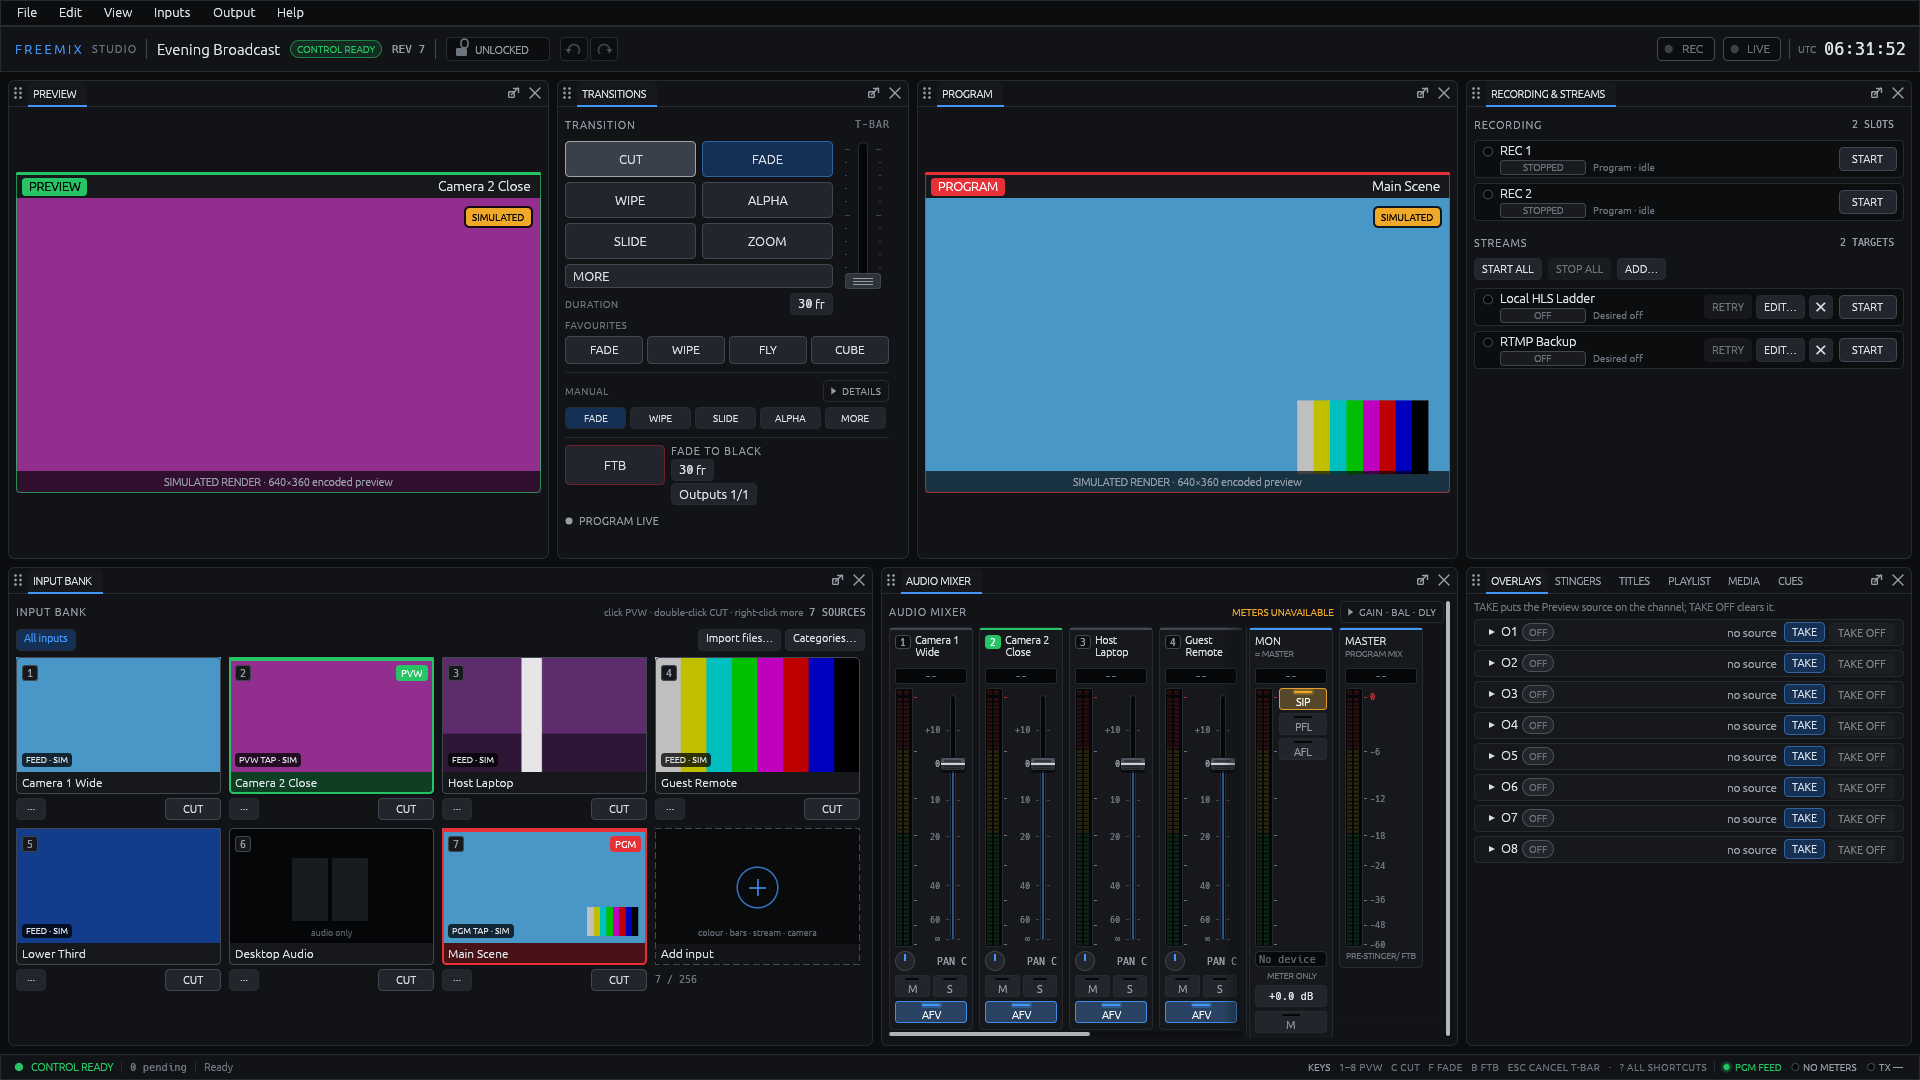
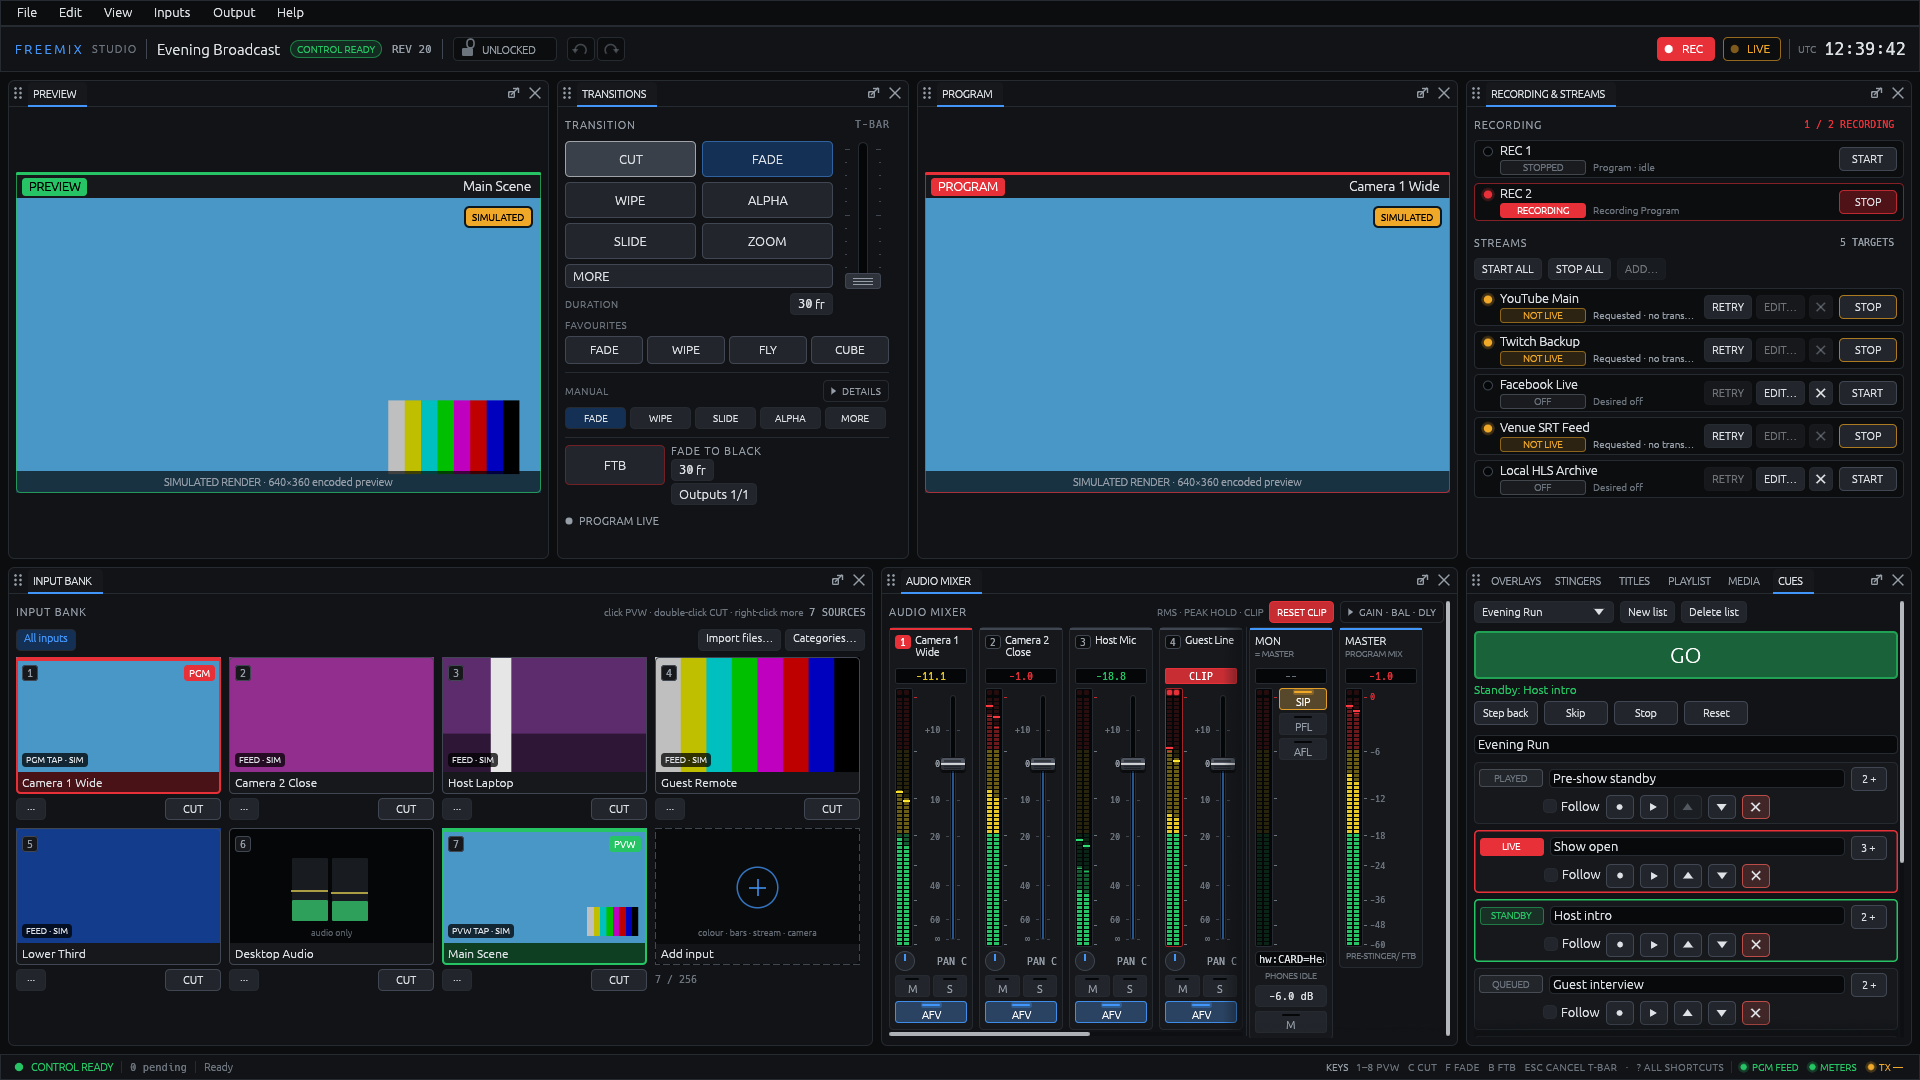
docs(progress): round 6 screenshots: scripts, cue script step, LiveLAN, headphones, system audio, docked workspace
Protocol 2.62, schema 56, simulated daemon with the synthetic meter feed:
Edit > Scripts (a failed later part with its marked line, a run reported
by a cue list, a run paused at a wait with Stop run), a cue's Script
action, Output > LiveLAN viewers (unavailable on the simulated daemon),
the MON strip's headphone device, level, and mute, the Add input dialog's
system audio kind, and the full docked workspace mid-show with five
destinations and the cue list. Review notes record the Scripts window
growing on every frame and the other visual problems seen.

diff --git a/docs/progress/README.md b/docs/progress/README.md
@@ -4,7 +4,7 @@ Captured from the native `freemix-studio` console running headless on this
 development host (Linux aarch64, Xvfb + Mesa lavapipe software Vulkan). The
 supervised daemon runs in simulated mode and sends no audio meters, so a
 normal build reports `METERS UNAVAILABLE` with unlit meter wells. Every
-console capture (regenerated on 2026-10-15/16 at Protocol 2.41, with the later additions at Protocol 2.48 and the round 5 additions at Protocol 2.52, see below) on the simulated daemon was taken
+console capture (regenerated on 2026-10-15/16 at Protocol 2.41, with the later additions at Protocol 2.48 and the round 5 additions at Protocol 2.52 and the round 6 additions at Protocol 2.62, see below) on the simulated daemon was taken
 with a synthetic meter feed (see Reproducing): those meter levels are a
 Studio-side test signal, not daemon audio. The
 Preview/Program monitors show
@@ -406,8 +406,15 @@ the counts and lock chips.
 | `studio-mixer-monitor.png` | The native session's audio mixer maximised (double-click its tab) with `▾ GAIN · BAL · DLY` open (AU-001, Protocol 2.44): solo mode `PFL` lit on the `MON` strip, Field Feed (the only input with audio, a 440 Hz tone over UDP) soloed at -3.0 dB with its lit amber `S`, so `MON` reads `SOLO LISTEN` and meters the pre-fader solo at -21.0 while Master reads -24.0; the group strips Cameras (-6 dB, holding Camera 1 and 2), Talkback (Host Mic and Guest Line), and the parent group All Mics, with Talkback's parent picker reading `In All Mics` and the others `Top level`. These are daemon meters (no synthetic feed). |
 | `studio-spanish-refusal.png` | 1920x1080 `--lang es --role admin`, simulated daemon: after right-clicking Camera 1 Wide, `Quitar…`, and `QUITAR`, the typed refusal toast `ERROR · Baja rechazada (input_in_use): «Camera 1 Wide» es una fuente de capa de la escena 100. Quite esa capa de la escena primero.`, now entirely in Spanish (the earlier capture quoted the daemon's English detail). |
 | `studio-fullscreen-outputs.png` | 1920x1080 `--role admin` against a native daemon started with `--diagnostic-display-inventory` listing two displays (DELL U2720Q, HDR, three modes; Venue LED Wall 1920x1080@50): Output › `Fullscreen outputs…` (OR-011, Protocol 2.42) with `2 displays connected` and `Refresh displays`; Output 1 `STANDBY`, `Waiting: the display is not connected`, targeting `name:Projector (not connected)` with Program bus / Current mode / Fit inside / Off (SDR); Output 2 `ACTIVE`, `On Venue LED Wall at 1920×1080 @ 50 Hz; SDR`, showing Program Output with Fill; each slot with `Save and apply`, `Discard changes`, and `Clear`. |
-| `studio-workspace-docked.png` | 1920x1080 `--role admin`, Protocol 2.59: the full docked Default workspace on the "Evening Broadcast" show (Main Scene on Program, Camera 2 Close on Preview, two recording slots, Local HLS Ladder and RTMP Backup streams), with live input bank thumbnails. Camera 1 Wide, Guest Remote, and Lower Third show their own `FEED · SIM` pictures; Host Laptop (an RTSP network stream) shows the simulated daemon's synthetic stream card; Camera 2 Close and Main Scene keep their `PVW TAP · SIM` / `PGM TAP · SIM` tap frames; Desktop Audio (system audio) shows the `audio only` meter placeholder; the side group on `OVERLAYS`. Replaces the round 5 capture of cue lists and five destinations. |
+| `studio-workspace-docked.png` | 1920x1080 `--role admin`, round 6 (Protocol 2.62): the full docked Default workspace on the "Evening Broadcast" show mid-run. The Evening Run cue list has played Pre-show standby and Show open (Camera 1 Wide faded to Program, Main Scene on Preview, REC 2 `RECORDING`, the top bar's `REC` and amber `LIVE`), so the Cues tab shows Show open `LIVE` and Host intro `STANDBY`; Recording & streams lists all five destinations at once, with YouTube Main, Twitch Backup, and Venue SRT Feed started (amber `NOT LIVE`, amber-outlined `STOP`, `RETRY` lit, `EDIT…` and `✕` disabled) and Facebook Live and Local HLS Archive `OFF`. The input bank has live thumbnails (`FEED · SIM` pictures, the `PGM TAP · SIM` / `PVW TAP · SIM` tap frames, Host Laptop's synthetic stream card) and Desktop Audio's `audio only` meter placeholder; the mixer's `MON` strip shows the headphone device `hw:CARD=Headset,DEV=0` (clipped), `PHONES IDLE`, and `-6.0 dB`. Replaces the Protocol 2.59 capture. |
 | `studio-cues.png` | The Cues panel popped out (900x720 window capture) on the same session (RC-017): the list picker with `New list` / `Delete list`, the full-width `GO` key, `Standby: Host intro`, `Step back` / `Skip` / `Stop` / `Reset`, the editable list name, and eight cue rows: Pre-show standby `PLAYED`, Show open `LIVE` (red border) opened with its three actions (Take Preview with Fade 30 frames, Stream YouTube Main On, Stream Twitch Backup On) and `Add action`, Host intro `STANDBY` (green border), Guest interview with `Follow` ticked, and per-row standby (`●`), go-this-cue (`▶`), move, remove, and action-count keys. |
+| `studio-cues-script.png` | Round 6: the Cues panel popped out (900x640 crop of the window, RC-017/RC-011, Protocol 2.60) after `GO` on Host intro and Guest interview: Guest interview `LIVE` and opened, its first action a `Script` step naming the project script `Guest in` (`run_script.2`), then `Take` `(Preview)` `Wipe` `20 frames`; Guest off `STANDBY`, the earlier cues `PLAYED`. |
+| `studio-scripts-failed.png` | Round 6: Edit › Scripts… (RC-011, Protocol 2.62), cropped to the dialog: Break bumper (`transition`, `wait 50`, `cut "Sponsor Loop"`) ran its first part, waited 50 frames, and its second part was refused (the show has no Sponsor Loop input): line 4 is marked red in the editor, the red status reads `The run failed on frame 145 with a refused action at line 4, column 1; nothing of that frame was applied.` beside `Clear failed run`. |
+| `studio-scripts-cue-run.png` | Round 6: the same window on Guest in after cue 4 of Evening Run ran it: `Last run by cue list Evening Run: 3 actions in 8 instructions, on frame 172` (Protocol 2.61); `Delete script` is disabled because a cue runs the script. |
+| `studio-scripts-waiting.png` | Round 6: Camera rotation (`let`, `repeat 4`, `if program == 1` … `else` … `end`, `wait 1500`) run from the CLI and paused at its first wait: the list reads `Camera rotation (running)`, the blue status `Running: the next part runs on frame 1696 (wait 1 of this run, 1500 frames waited so far)`, `Stop run`, and `Last run: 1 actions in 18 instructions, on frame 196`; `Save script` and `Run script` are disabled. |
+| `studio-livelan-unavailable.png` | Round 6: Output › LiveLAN viewers… (OR-017, Protocol 2.57), cropped, on the simulated daemon with LiveLAN enabled in the project (`Share on the local network` ticked, `Viewers see` Program, `Viewer limit` 8, no PIN): the amber `UNAVAILABLE` chip hovered, its tooltip explaining that the server has no LiveLAN listener and how to start one (`freemixd serve <show.freemix> --native-media --live-lan-listen 0.0.0.0:8090`); `Viewer address No address yet`. |
+| `studio-mixer-phones.png` | Round 6: the docked audio mixer (580x475 crop, AU-001 headphone output, Protocol 2.53) with the `MON` strip's headphone controls: device `hw:CARD=Headset,DEV=0` (set offline; the field shows `hw:CARD=Hea`), `PHONES IDLE` (the simulated daemon renders no audio), headphone level `-6.0 dB`, and the headphone mute `M` lit red. Synthetic meter feed, so `MON` reads `--`. |
+| `studio-add-input-system-audio.png` | Round 6: the `+` tile's Add input dialog (AU-011) (Protocol 2.55) with `SYSTEM AUDIO` chosen: suggested name "System Audio 1", Audio system `PulseAudio / PipeWire` (or `ALSA`), Source device `@DEFAULT_MONITOR@` with its hint, and the `Audio only` / `SILENT` sample tagged `INPUT 8`; behind the dialog, Desktop Audio (input 6, a PulseAudio system audio input) shows its `audio only` meter placeholder tile. |
 | `studio-streams-five.png` | The Recording & streams panel popped out (820x610 window capture, OR-006) with five destinations, each one compact row with its `RETRY` / `EDIT…` / remove (`✕`) keys inside the row left of `START`/`STOP`: YouTube Main (RTMPS with backup), Twitch Backup (RTMP), and Venue SRT Feed (SRT) started and amber `NOT LIVE` with amber-outlined `STOP` keys and enabled `RETRY`; Facebook Live (RTMPS) and Local HLS Archive `OFF` with `START`, `EDIT…`, and remove enabled. `EDIT…` and remove are disabled on running destinations (remove also while a cue names the destination); `ADD…` is disabled at five destinations. In a narrow dock the three keys fold into one `···` menu key (`RETRY`, `EDIT…`, `Remove destination…`). Recaptured after the layout fixes (no cue lists in that show). |
 | `studio-stream-status-hover.png` | The same window hovering YouTube Main's status chip: the status tooltip with `Desired on · realized not live`, `State: NOT LIVE`, the destination and backup URLs, `Output: Program Output · target 6,000 kb/s`, `Stream key: stored (never shown)`, and `No transport sample yet` (the simulated daemon sends no stream samples, so the bitrate / dropped / reconnects / uptime line is absent). |
 | `studio-stream-edit-dialog.png` | 1920x1080, `EDIT…` on Facebook Live: the Edit destination dialog with the Destination section (Name, `RTMP` / `RTMPS` / `SRT` / `HLS` with RTMPS lit, Server `live-api-s.facebook.com:443/rtmp` and the resolved `rtmps://…` URL under it, the Backup server placeholder), a replacement stream key being typed and shown as dots beside the eye toggle, Output and video (Program Output, 4000 kb/s, `Start on launch`), Reconnect (250 ms / 2000 ms / 40 attempts, `Unlimited`), the undo note, and `CANCEL` / `SAVE`. |
@@ -440,6 +447,58 @@ change): `web-operator-phone.png` (refreshed), `web-operator-phone-es.png`,
 scale 2) against the same simulated show, with the Viewer tally, the
 Spanish Operator page, the Audio tablet page, and finally the English
 Operator page all connected at once, each its own session and role.
+
+Round 6: captures of 2026-10-19 at Protocol 2.62, schema 56 (commit
+b9ce83dd). Added: `studio-scripts-failed.png`, `studio-scripts-cue-run.png`,
+and `studio-scripts-waiting.png` (RC-011 project scripts: a failed later
+part with its marked line, the last run reported by a cue list, and a run
+paused at a `wait` with `Stop run`), `studio-cues-script.png` (a cue's
+Script action), `studio-livelan-unavailable.png` (OR-017),
+`studio-mixer-phones.png` (the headphone device, level, and mute on the
+`MON` strip), and `studio-add-input-system-audio.png` (AU-011);
+`studio-workspace-docked.png` was recaptured on a realistic mid-show state
+with five destinations and the cue list. All use the simulated daemon and
+the synthetic meter feed; every stream key is a fake (`demo-…-not-real`).
+The Scripts and LiveLAN captures are crops of the dialog, the Cues capture a
+crop of the popped-out window (`import -window`). The Colour `Copy to…`
+captures (Protocol 2.56) were already current and were not retaken.
+
+Review notes from these captures (problems seen, not fixed here):
+
+- Edit › Scripts… grows taller on every frame it is drawn: within about a
+  second of opening it fills the screen and keeps growing, with its title,
+  list, and editor pushed above the top edge (the vertical separator
+  between the list and the editor takes the full available height inside
+  the auto-sized modal, so the modal grows with it). egui remembers the
+  size, so reopening it in the same session shows it already oversized.
+  The three Scripts captures were each taken in a fresh Studio about half
+  a second after opening the window (hence the empty band above the
+  reference text), with the script of interest made script 1 so it was
+  selected on opening (see Reproducing). This makes the window unusable in
+  practice and is the main finding of this round.
+- Scripts: while Camera rotation waits, `Delete script` still looks
+  enabled although the window's own rules say a paused script cannot be
+  deleted; `1 actions` is not pluralized correctly; and `1500 frames waited
+  so far` is shown at the very start of the wait (it is the frames the
+  run's waits add up to, not the frames already waited). The failed-run
+  line names only `a refused action`, not why it was refused (the CLI shows
+  `the show has no input …`).
+- LiveLAN: the `UNAVAILABLE` tooltip repeats the paragraph already shown
+  under the chip and spills out of the dialog; `Viewer address No address
+  yet` runs the label into a monospace value with no separation.
+- Mixer `MON` strip: the headphone device field is too narrow for an ALSA
+  name and shows `hw:CARD=Hea` (full name only on hover); the PHONES state
+  tooltip covers the level and mute keys below it. Maximising the mixer
+  leaves most of the panel empty (the strips keep their width).
+- Add input: the `+` tile still reads `colour · bars · stream · camera` and
+  the dialog intro says "a live generator, network stream, or camera input",
+  neither mentioning system audio; the sample says `Audio only` while the
+  bank tile says `audio only`.
+- Recording & streams: each started destination's detail reads
+  `Requested · no trans…`, cut off before the useful part.
+- The Edit menu's `Undo` is disabled at launch although the show has a
+  revision history from offline edits (only edits made in this session can
+  be undone; there is no hint saying so).
 
 Round 5: captures of 2026-10-16 at Protocol 2.52, schema 49 (commit
 a821e6d). Added: `studio-workspace-docked.png` (the full docked workspace),
@@ -1269,3 +1328,86 @@ freemix-cli preview demo.freemix 7
 freemix-cli cut demo.freemix
 freemix-cli preview demo.freemix 2
 ```
+
+The round 6 captures (2026-10-19, Protocol 2.62, schema 56) built `git
+archive HEAD` in `/tmp/shots6-src` with `CARGO_TARGET_DIR=/tmp/shots4-target`
+and `--features freemix-studio/capture-meter-signal`, on Xvfb `:96`
+(1920x1080x24) with `--listen 127.0.0.1:7396`, `--role admin`, a fresh
+`FREEMIX_STUDIO_PREFS` file per launch, and `FREEMIX_STUDIO_CAPTURE_METERS=1`.
+The show is the Protocol 2.59 workspace show above with the round 5 five
+destinations (Venue SRT Feed's passphrase `demo-srt-passphrase-not-real`,
+Local HLS Archive writing under the scratch directory) in place of its two
+stream targets, plus
+
+```sh
+freemix-cli audio-label demo.freemix 3 "Host Mic"
+freemix-cli audio-label demo.freemix 4 "Guest Line"
+freemix-cli script-set demo.freemix 1 "Camera rotation" rotate.fms
+freemix-cli script-set demo.freemix 2 "Guest in" guest.fms
+freemix-cli script-set demo.freemix 3 "Break bumper" bumper.fms
+freemix-cli cue-list-set demo.freemix 1 "Evening Run" "1:Pre-show standby:0:preview.1,record.2.1;\
+2:Show open:0:take.-.fade.30,stream.1.1,stream.2.1;3:Host intro:0:preview.3,take.-.fade.20;\
+4:Guest interview:0:run_script.2,take.-.wipe.20;5:Guest off:0:overlay_off.1;\
+6:Break to black:0:fade_to_black.1.45;7:Back from break:0:fade_to_black.0.30,take.1.cut.0;\
+8:Close and stop streams:0:fade_to_black.1.60,stream.1.0,stream.2.0,record.2.0"
+freemix-cli cue-list-set demo.freemix 2 "Contingency" \
+    "1:Technical difficulties:0:take.5.cut.0,audio_mute.4.1;2:Resume programme:0:audio_mute.4.0,take.7.fade.30"
+freemix-cli audio-monitor-device demo.freemix "hw:CARD=Headset,DEV=0"
+freemix-cli audio-monitor-level demo.freemix -6000 off
+freemix-cli live-lan-set demo.freemix --enable --source program --max-viewers 8
+```
+
+(the cue string is one argument), where `rotate.fms` is
+
+```text
+# Rotate the two cameras every minute until someone stops the run.
+let shots = 0
+repeat 4
+  if program == 1
+    transition fade, 25, "Camera 2 Close"
+  else
+    transition fade, 25, "Camera 1 Wide"
+  end
+  let shots = shots + 1
+  wait 1500
+end
+```
+
+`guest.fms` is `preview "Guest Remote"`, `overlay 1, "Guest Remote"`, and
+`gain "Guest Remote", -3000`, and `bumper.fms` is `transition fade, 25,
+"Camera 1 Wide"`, `wait 50`, and `cut "Sponsor Loop"` (no such input, so
+its second part is refused), each with a leading `#` comment line. The
+steps: click the side group's `CUES` tab, `GO` twice (allowing a few seconds
+for the recorder), and `START` on Venue SRT Feed, then capture the console
+(`studio-workspace-docked.png`). Open Output › `LiveLAN viewers…` and rest
+the pointer on the `UNAVAILABLE` chip (`studio-livelan-unavailable.png`);
+`Escape`, click the headphone `M` on the `MON` strip, and crop the docked
+mixer (`studio-mixer-phones.png`); click the `+` tile and `SYSTEM AUDIO`
+(`studio-add-input-system-audio.png`), `CANCEL`. Pop out the Cues tab, size
+it to 900x760, click `GO` twice more (Host intro, Guest interview) and
+Guest interview's `2 +` action key (`studio-cues-script.png`).
+
+Because the Scripts window grows on every frame (see the review notes),
+each Scripts capture starts a fresh Studio with `--connect 127.0.0.1:7396
+--project-id <id> --role admin` against the same daemon, opens Edit ›
+`Scripts…` (moving the pointer onto the item before clicking; a jump and
+click in one step is not seen), and grabs the screen every 0.2 s, keeping
+the grab about half a second after opening. The script to show is made
+script 1, the one selected on opening, with `remote-script-set`:
+
+- failed run: `remote-script-set … 1 "Break bumper" bumper.fms` and `… 3
+  "Camera rotation" rotate.fms`, `remote-script-run … 1`, wait for the
+  fault (`remote-scripts` shows `state=faulted … line=4`), then open the
+  window (`studio-scripts-failed.png`);
+- cue run: `remote-script-set … 1 "Guest in" guest.fms`, re-set Evening Run
+  with cue 4's action `run_script.1`, then `… 2 "Break bumper" bumper.fms`
+  (a script that waits cannot replace one a cue runs); put another input
+  on Program (`remote-preview … 2`, `remote-cut`, `remote-preview … 1`) so
+  the script's `preview "Guest Remote"` is allowed, start the fresh Studio,
+  run `remote-go … 1 4` while it is connected (the cue's script report is an
+  event, not part of the snapshot), and open the window
+  (`studio-scripts-cue-run.png`);
+- paused run: restore 2 "Guest in", cue 4 `run_script.2`, 1 "Camera
+  rotation", and 3 "Break bumper", start the fresh Studio, run
+  `remote-script-run … 1`, and open the window
+  (`studio-scripts-waiting.png`).
